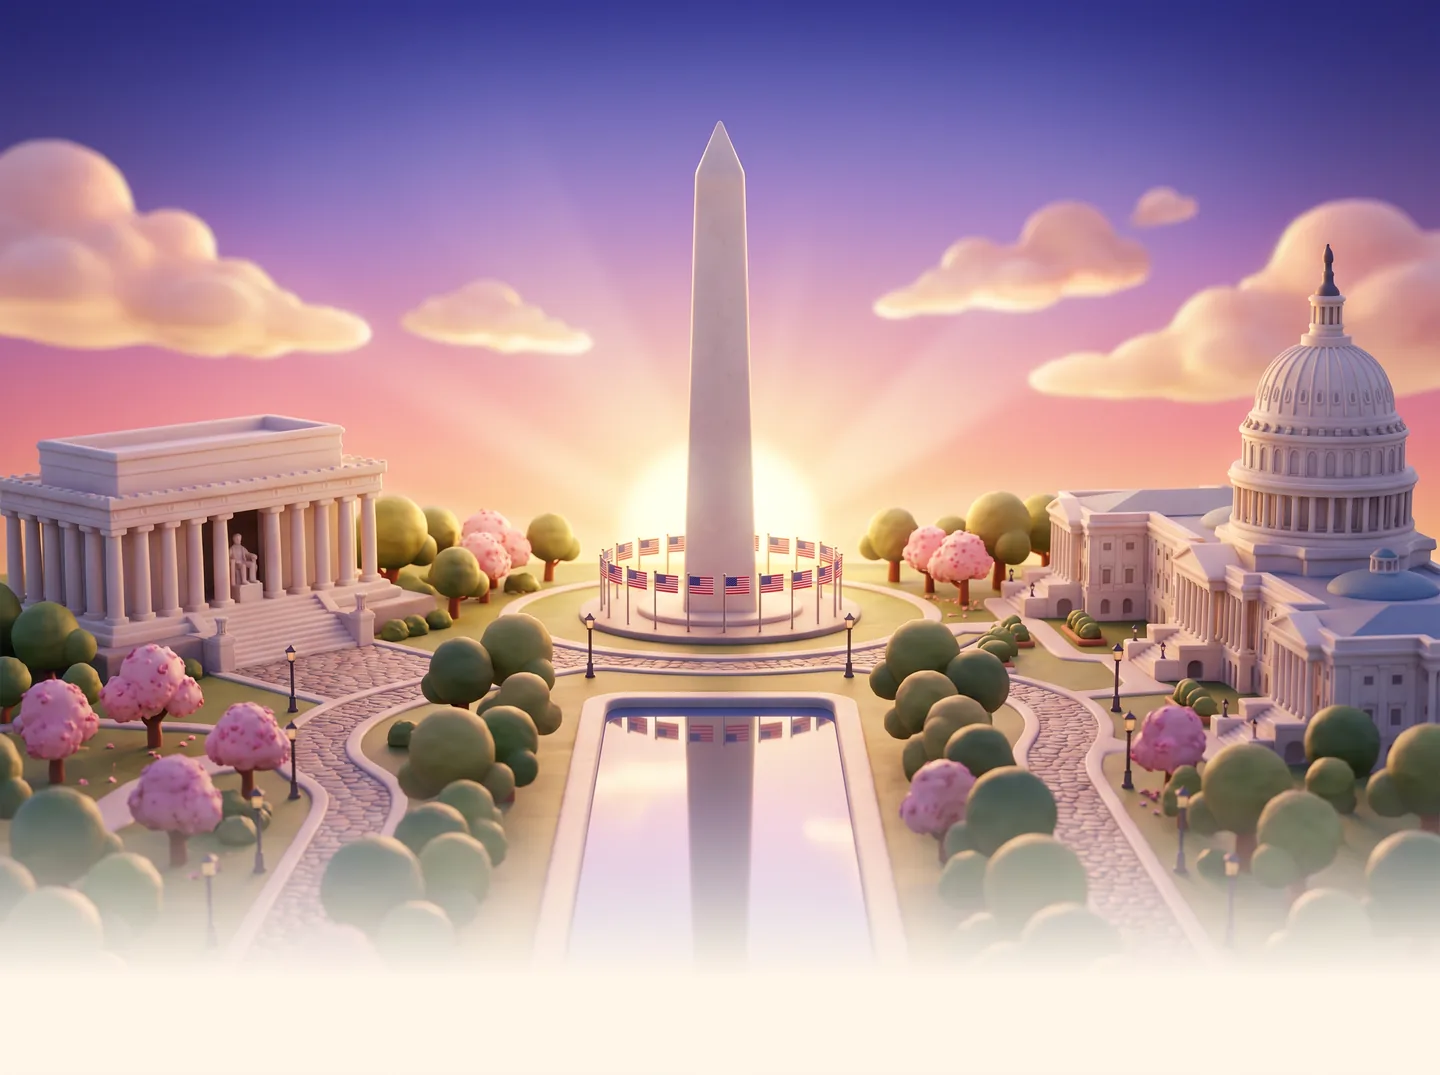
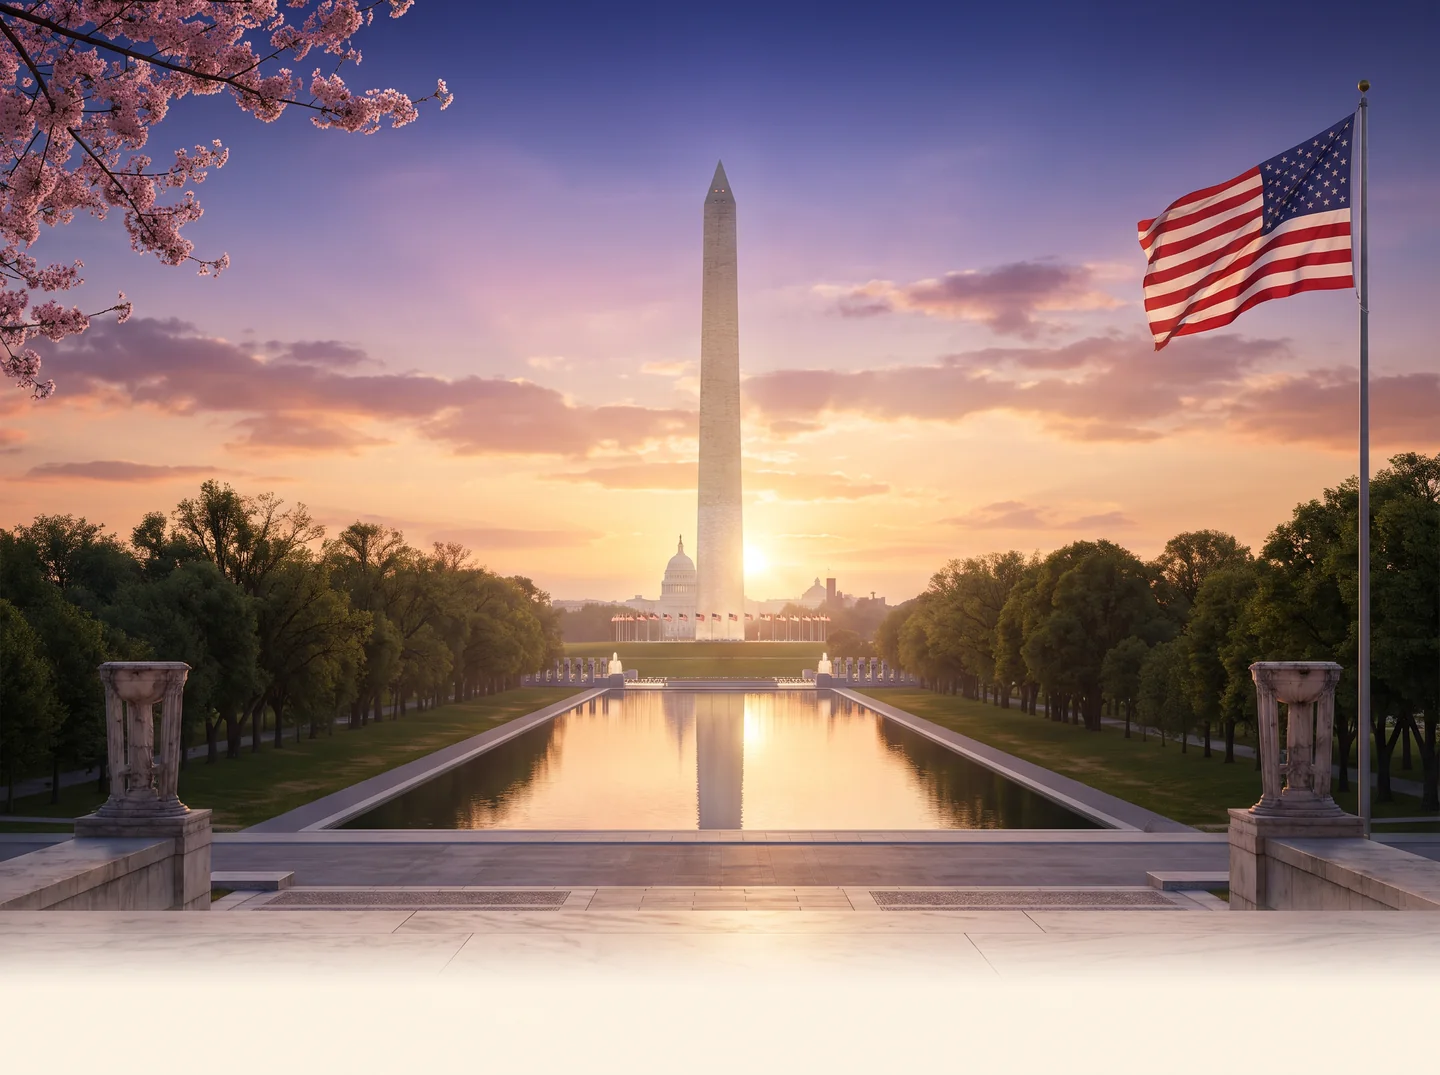
Make the scene the real Washington, D.C. view (Jose's ask)
The view east from the Lincoln Memorial: Reflecting Pool, Washington Monument,
Capitol dome, the flag, by day and by night, in place of the toy diorama.

Claude-Session: https://claude.ai/code/session_01URjRU4LTZyHqcLfg7Skgd2

diff --git a/docs/design/art-prompts.md b/docs/design/art-prompts.md
@@ -4,21 +4,24 @@ Pictures are rendered once and saved as WebP, so the app shows 3D art without ru
 3D on the phone. Made with Runway's image tool, 4:3 at 2K (the eagle 1:1 at 1K), then
 resized: scenes to 1440 px wide (60 to 80 KB), the eagle to 256 px and 640 px.
 
-Shared style line: "Highly detailed 3D render, stylized miniature look with soft matte
-clay and painted-toy materials, smooth rounded bevels, rich small details, soft global
-illumination, gentle depth of field, premium mobile game illustration quality, charming
-and warm. No text, no letters, no logos, no people."
+Jose asked for it to look like the real Washington, D.C. (2026-11-11), so the scenes
+are the true view, not a toy model. Shared style line: "Architecturally accurate,
+true-to-life proportions and materials, real geography. Cinematic high-fidelity
+realistic 3D render, rich fine detail, soft atmospheric haze and depth. No text, no
+letters, no logos, no people."
 
-- **mall-day:** a miniature 3D diorama of the National Mall at golden hour, seen from
-  slightly above; Washington Monument in the exact center with a ring of tiny flags;
-  Lincoln Memorial left, Capitol right; reflecting pool from the foreground to the
-  monument; round trees, cherry trees in bloom, lamp posts, paths; sky from deep indigo
-  through violet and pink to peach and gold, sun low behind the monument; the bottom
-  fifth fades into flat cream `#FFF8F0`.
-- **mall-night:** the same diorama at night, monuments floodlit, lit windows, glowing
-  lamp posts, starry navy sky with a magenta afterglow; the bottom fifth fades into flat
-  navy `#12152B`.
+- **mall-day:** the real view east from the Lincoln Memorial steps at golden hour: the
+  Reflecting Pool straight ahead between rows of elms, the World War II Memorial at its
+  far end, the Washington Monument in the exact center with its ring of flags, mirrored
+  in the pool, the Capitol dome small in the distance behind it; a large American flag
+  at the right edge; cherry blossoms in the top left corner; sky from indigo through
+  violet and rose to gold; the bottom fifth fades into flat cream `#FFF8F0`.
+- **mall-night:** the same view at night, monument and Capitol floodlit, path lights,
+  stars, a rose afterglow; the bottom fifth fades into flat navy `#12152B`.
 - **eagle:** a friendly 3D cartoon bald eagle, head and shoulders, warm smile, navy
-  collar with a tiny gold star pin, on a plain indigo-violet background.
+  collar with a tiny gold star pin, on a plain indigo-violet background. (A realistic
+  eagle was tried and looked stern; kept out unless Jose prefers it.)
+
+Tried first and replaced: the same landmarks as a clay toy diorama.
 
 A new picture must match these: same style line, same camera height, same fade color.

diff --git a/CREDITS.md b/CREDITS.md
@@ -4,10 +4,11 @@ Every asset: what it is, where it came from, its license, what it cost.
 
 | Asset | File | Source | License | Cost |
 |---|---|---|---|---|
-| The Mall at golden hour (3D-rendered picture) | `assets/images/mall-day.webp` | Made for this app with Runway's image tool (Jose's Runway account), 2026-11-11 | Made-to-order output on Jose's account. TO CONFIRM: that his Runway plan's terms allow use on a public website | 20 Runway credits |
+| The Mall at golden hour, the real view from the Lincoln Memorial (3D-rendered picture) | `assets/images/mall-day.webp` | Made for this app with Runway's image tool (Jose's Runway account), 2026-11-11 | Made-to-order output on Jose's account. TO CONFIRM: that his Runway plan's terms allow use on a public website | 20 Runway credits |
 | The Mall at night | `assets/images/mall-night.webp` | Same | Same | 20 Runway credits |
 | Eagle officer (mascot) | `assets/images/eagle-officer.webp`, `eagle-officer-full.webp` | Same | Same | 20 Runway credits |
 | Fraunces, Nunito (fonts) | loaded from Google Fonts | Google Fonts | SIL Open Font License 1.1 | Free |
 | The 128 questions | `sources/uscis-2025-civics-128.pdf` | USCIS, form M-1778 (09/25) | U.S. government work, public domain | Free |
 
-The prompts used for the pictures are in `docs/design/art-prompts.md`.
+Runway credits spent on art so far: 120 (six pictures; three are in use, three were
+trials). The prompts used for the pictures are in `docs/design/art-prompts.md`.

diff --git a/DESIGN.md b/DESIGN.md
@@ -1,7 +1,7 @@
 # Design: Citizenship study app
 
-> Golden hour on the National Mall. A 3D-rendered miniature of the Mall (Lincoln
-> Memorial, Washington Monument, Capitol, reflecting pool) sits behind a warm cream page; the
+> Golden hour on the National Mall. The real view of Washington, D.C. from the Lincoln
+> Memorial (Reflecting Pool, Washington Monument, Capitol dome, the flag), 3D-rendered, sits behind a warm cream page; the
 > question is set in an elegant serif on a soft white card; everything you press is
 > bold, rounded and has a solid lip (the Duolingo lesson, `docs/design/duolingo.com.md`).
 > Dark mode is the same Mall at night, monuments floodlit.
@@ -41,7 +41,7 @@ One loud action per screen; red appears only when something is wrong.
 
 ### The art (3D-rendered pictures)
 
-Jose asked for 3D images with rich detail (2026-11-11). The scenes are rendered once and
+Jose asked for 3D images with rich detail, true to the real Washington, D.C. (2026-11-11). The scenes are rendered once and
 saved as pictures, so they cost a phone nothing: `assets/images/mall-day.webp` (light)
 and `mall-night.webp` (dark), each fading into `--page` at the bottom, and the eagle
 officer `eagle-officer.webp`. Style, prompts and sizes: `docs/design/art-prompts.md`.

diff --git a/SPEC.md b/SPEC.md
@@ -109,7 +109,7 @@ TO FILL: Jose to confirm.
 ## Budget
 
 $0 in new purchases, no template (Jose, 2026-11-11). Google Fonts, public-domain or
-CC0 art, and pictures made with the Runway credits Jose already has (60 used so far;
+CC0 art, and pictures made with the Runway credits Jose already has (120 used so far;
 CREDITS.md).
 
 ## Hosting
@@ -138,6 +138,8 @@ Each phase is one pull request, one or two sessions.
     "Golden hour on the Mall" with more detail. DESIGN.md and the sample redrawn.
   - [x] Jose asked for 3D images and richer detail: the Mall (day and night) and an
     eagle officer rendered as 3D pictures, in the sample.
+  - [x] Jose asked for it to look like the real Washington, D.C.: the scenes are now
+    the true view from the Lincoln Memorial, day and night.
   - [ ] Jose OKs the sample (or asks for changes).
 - [ ] 3. App shell, state picker, Study cards with read-aloud, Drill with spaced
   repetition and "I guessed". Home Screen install and offline.
